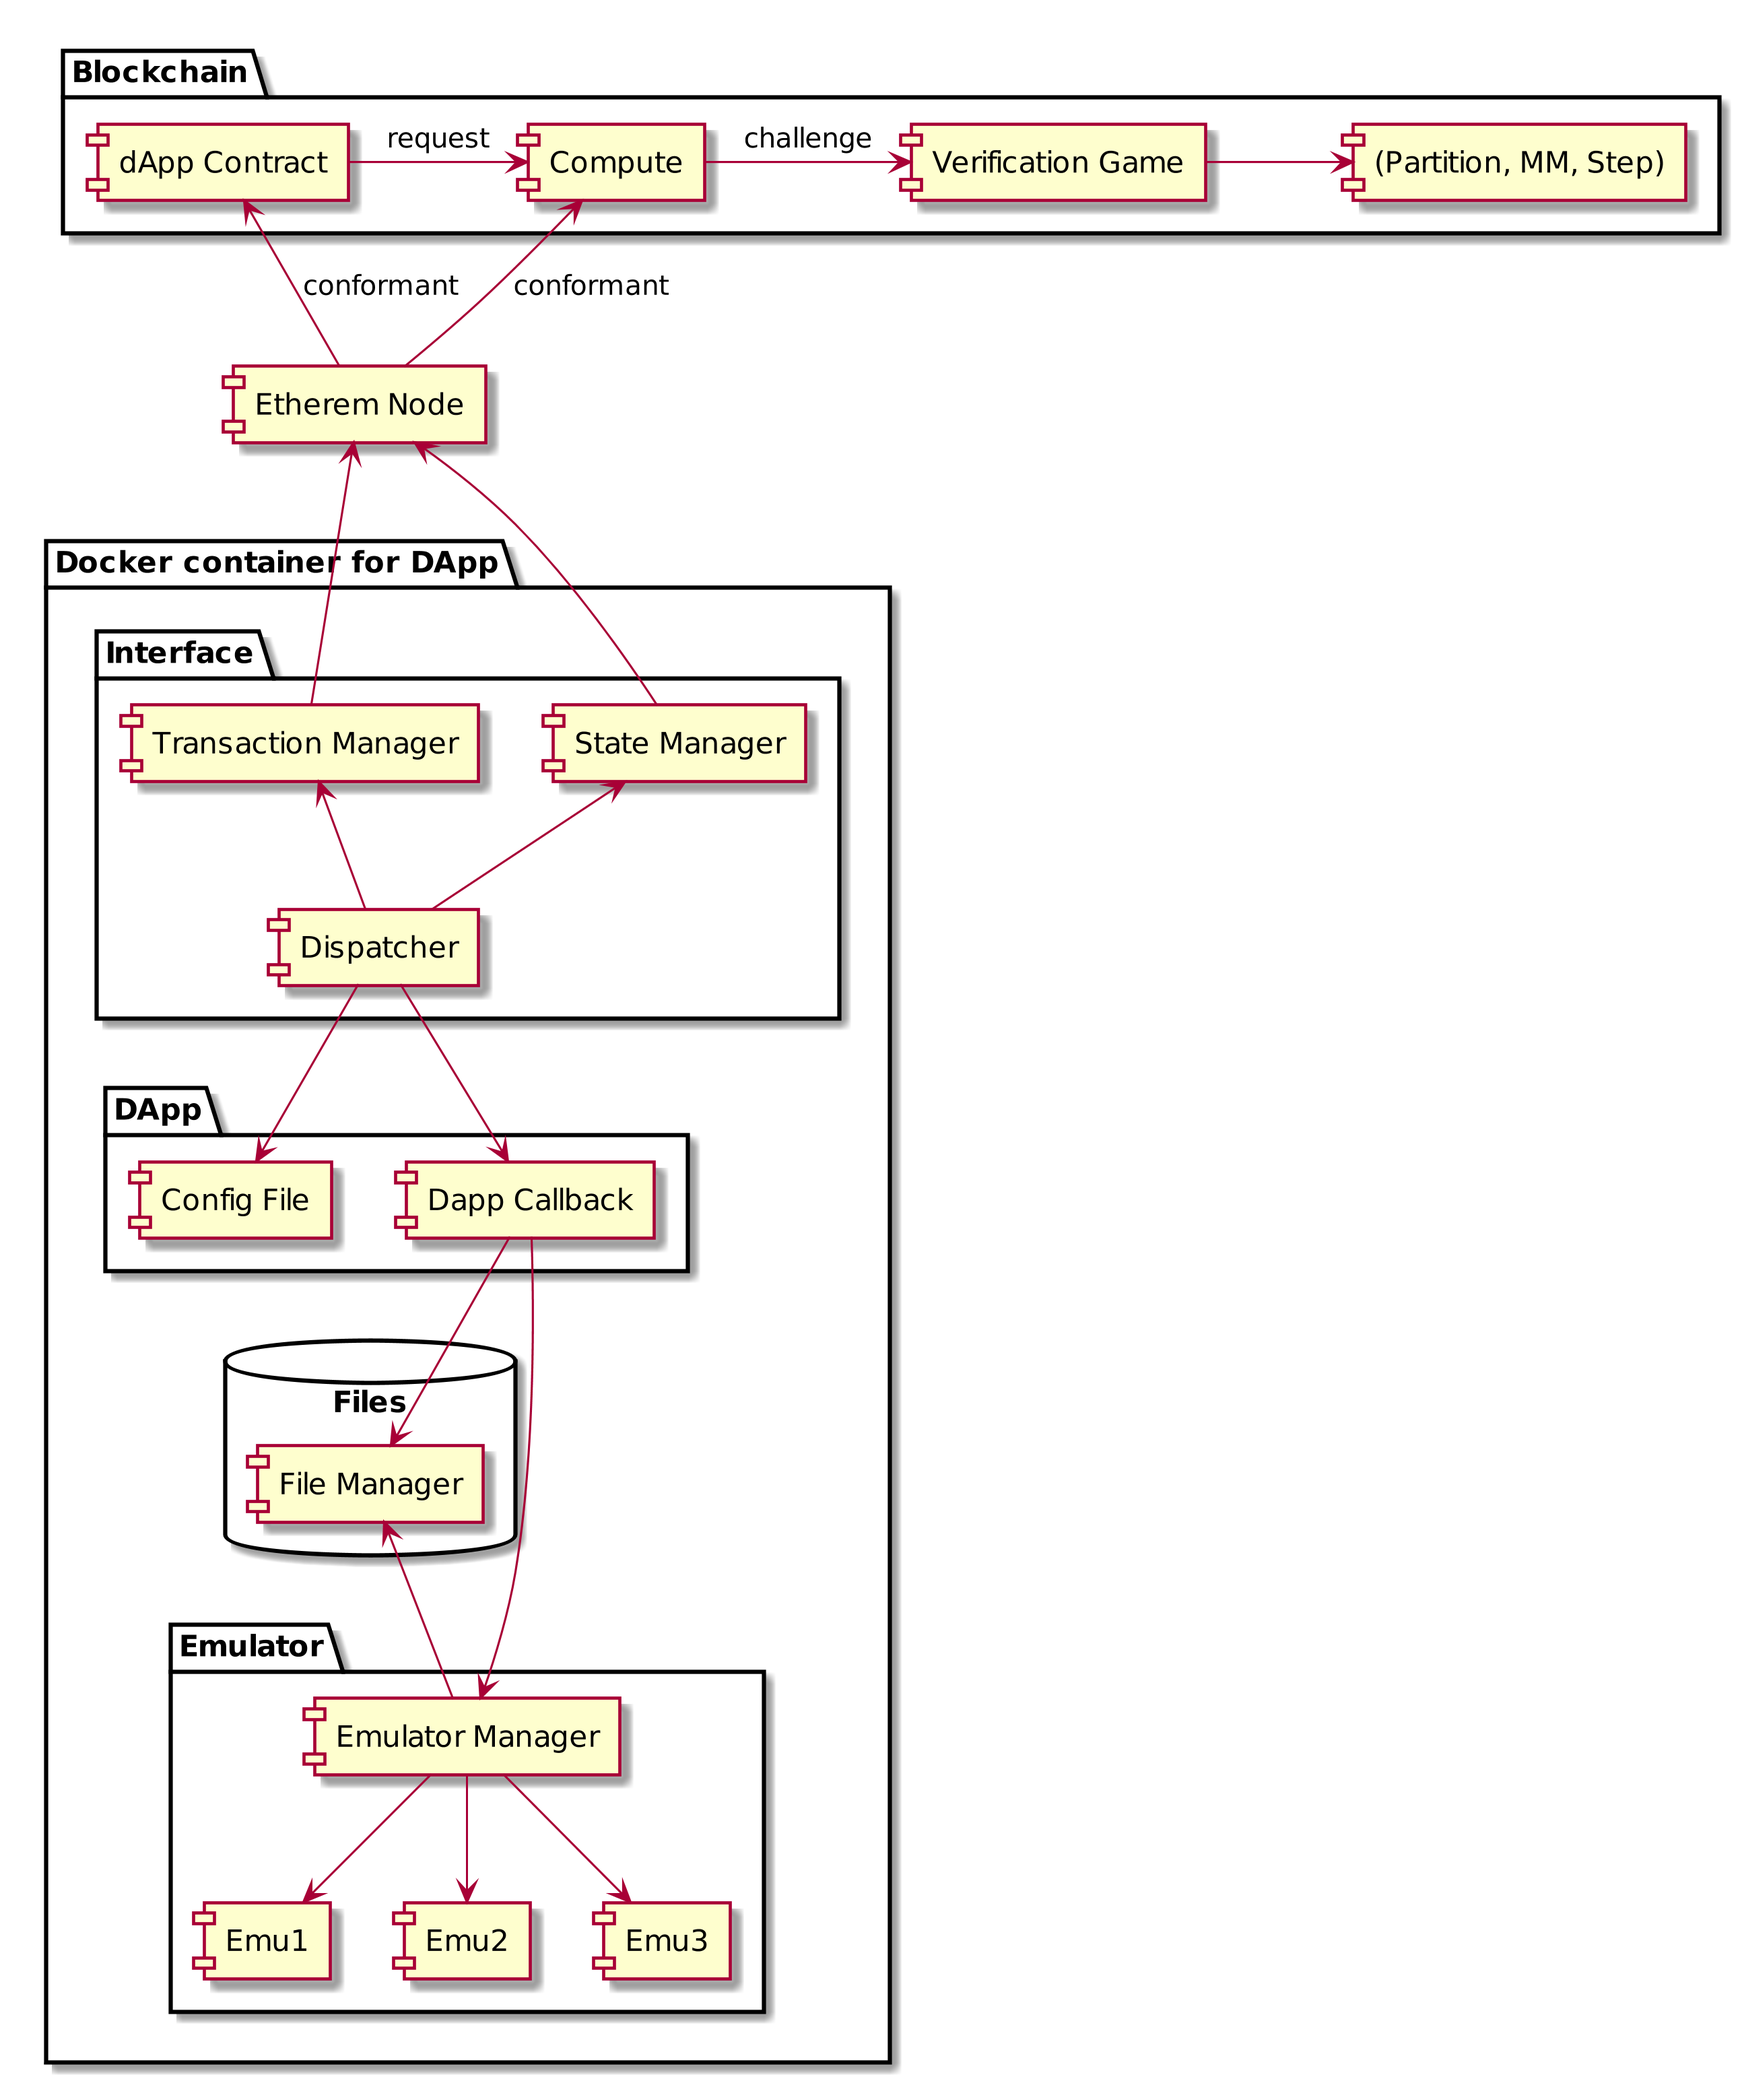
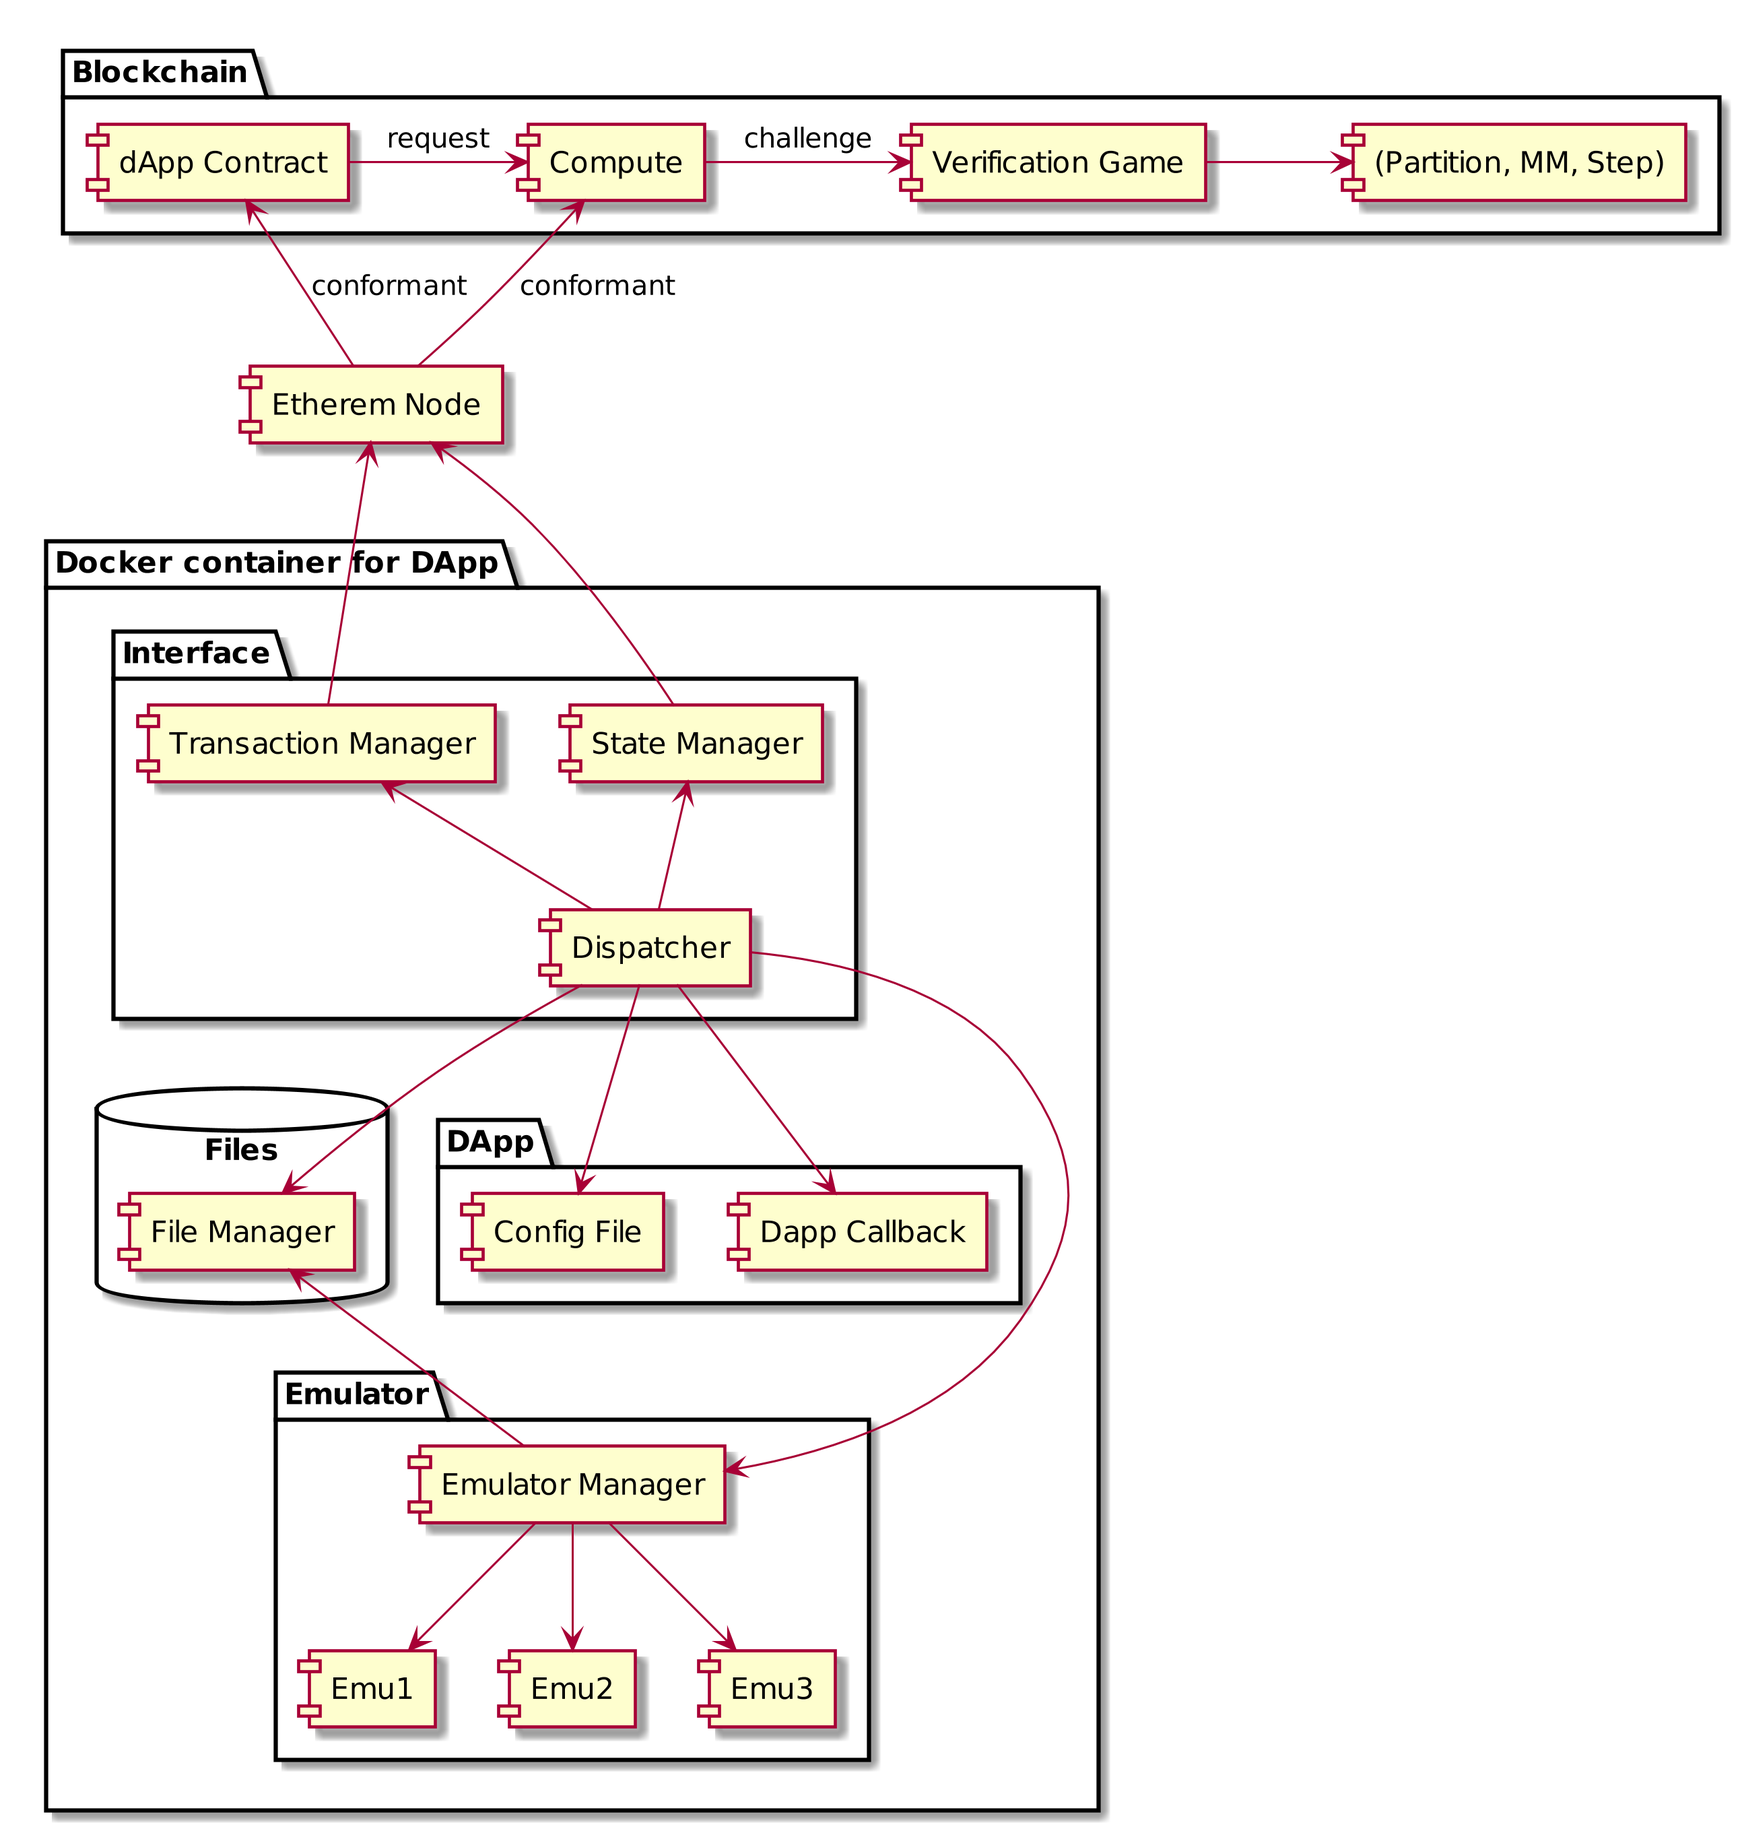
Update dispather README.md

Changed region(s): [[0.0309, 0.0, 1.0, 0.9996]]

diff --git a/README.md b/README.md
@@ -35,6 +35,7 @@ Install rust
     curl https://sh.rustup.rs -sSf | sh
 
 Add cargo to your path in `.bashrc`
+
     export PATH=$PATH:/home/user/.cargo/bin
 
 ## Compile hasher and emulator_interface
@@ -61,12 +62,6 @@ https://github.com/cartesi/grpc_interfaces
 In the root folder
 
     cargo build
-
-# TODOs
-
-- change this file to reflect changes in the design
-- improve error reporting by: adding more chain_err and inserting context inside the error messages
-- implement display for the structs we define and use them in logs
 
 ## Goals
 
@@ -106,6 +101,8 @@ Every other state in the system should be able to bootstrap from the above ones.
 The purpose of each of these components is briefly described below.
 Later we will give an overview of the Dispatcher Loop, then a more detailed description of each module.
 
+The example illustrated in the picture below describes a dApp that communicates with other Cartesi contracts in order to perform computations.
+
 <img src="components.png" alt="drawing" width="500"/>
 
 ### Dispatcher
@@ -126,8 +123,8 @@ Whenever the dApp needs to send a transaction to the blockchain, it has the poss
 
 ### State Manager
 
-DApps written for Cartesi will work best if their smart contracts have some "getter functions" that are predefined by us, guiding somehow the inner workings of the contract.
-Since these getter functions are standard, we have a component dedicated to retrieve these data, which abstracts away:
+DApps written for Cartesi will work best if their smart contracts have some "getter functions" that are predefined in our specifications, guiding somehow the inner workings of the contract.
+Since these getter functions are standard, we have a component dedicated to retrieve these data, which will abstract away:
 
 - the specific blockchain that we are dealing with and
 - whether we are working with a full or a light node.
@@ -135,14 +132,14 @@ Since these getter functions are standard, we have a component dedicated to retr
 ### DApp Callback
 
 This is where the dApp-specific action takes place.
-In order to make a Cartesi dApp, a developer has to implement three things: 
+In order to make a Cartesi dApp, a developer has to implement three things:
 
 - a few smart contracts,
 - some machines to run in our emulator and
 - the "DApp Callback".
 
 This module is called by the Dispatcher, with all the state information that it needs in order to make decisions.
-The Callback can also access files through the File Manager and finally return some action to the Dispatcher in the form of a transaction.
+This callback can be written in a fully functional way, improving testing and reliability.
 
 ### Configuration File
 
@@ -171,10 +168,10 @@ Imagining that the Dispatcher just woke up, it will perform the following steps 
 1. Open the Configuration File to collect all data that is specific to our user.
 The main content of this file is the list of "concerns" as explained below.
 1. Contact the State Manager to obtain all the blockchain information that is relevant to the user. Example: what is currently going on in the "partition contract", instance 17.
-1. Ask the Transaction Manager which of these instances is being treated now and which needs a reaction from us.
 1. All this information is passed to the DApp Callback, which will have to take a decision on how to proceed (more details later).
-The DApp Callback then returns to the Dispatcher one (or more) transactions that should be sent to the blockchain.
-1. The Dispatcher sends these transactions to the Transaction Manager that will make sure they are inserted into the blockchain in a timely manner.
+The DApp Callback then returns to the Dispatcher one (or more) transactions that should be sent to the blockchain or emulations that should be performed.
+1. In one of these cases, the Dispatcher requests emulations to be performed by the Emulator Manager.
+1. Otherwise, it sends the requested transactions to the Transaction Manager that will make sure they are inserted into the blockchain in a timely manner.
 
 ## Configuration File
 
@@ -207,10 +204,12 @@ This helps trim out the instances that need no more attention.
 - `bool isConcerned(uint instance, address player)` There should be a pure function to determine if a certain player should be concerned with a certain instance.
 Typically, this can be achieved by simply storing a list of concerned users and checking against it.
 - `uint getNonce(uint instance)` Each instance should have a nonce that is incremented in every transaction (that is not reversed, of course).
-This nonce is important in various moments for the off-chain component to decide on how to react.
+This nonce will be important in various moments for the off-chain component to decide on how to react.
 - `bytes getState(uint instance)` This pure function returns the current state of one particular instance.
 Note that all data which is necessary for players to react to this instance should be returned by this function, although not necessarily the full state of the contract.
 For example, in the case of partition, one possible return for this function would contain something like `[nonce: 5, state: 2, queryArray: [0, 200, 400, 600]]` encoded appropriately.
+- `getSubInstances(uint instance)` this function returns other pairs `(address, instance)` of other smart contracts and instances that are relevante for the user.
+For example, a verification game may depend on a partition instance stored in another contract.
 
 ## State Manager
 
@@ -220,13 +219,13 @@ The responsibilities of the State Manager are:
 These queries should also include the `nonce` each instance,
 - get the current state of the contract,
 - cache this information for faster retrieval and
-- do all of the above work efficiently with both a full or a light Ethereum node.
+- in the future, do all of the above work efficiently with both a full or a light Ethereum node.
 
 The state of this module can be fully bootstrapped from the information present in the blokchain, but caching is essential to get any acceptable performance.
 
 #### Calls
 
-The first query that the SM has a pair (contract, address) as input:
+The first query that the SM can perform has a pair (contract, address) as input:
 
     { contract: 0xf778b86fa74e846c4f0a1fbd1335fe81c00a0c91,
       address: 0x6ac7ea33f8831ea9dcc53393aaa88b25a785dbf0
@@ -250,7 +249,7 @@ The response of this query gives simply the result the `getState` call:
       queryArray: [0, 200, 400, 600]
     }
 
-where the above could be encoded into a binary according to the Ethereum ABI.
+where the above could be encoded according to the Ethereum ABI.
 
 #### State
 
@@ -325,7 +324,7 @@ The return of this message is simply a OK/ERROR status.
 After receiving such a message, the Transaction Manager will keep trying to send the above transaction: within the specified deadline, trying to minimize the cost and not going over the value `max_price`.
 While the current process is trying to push this transaction, it is marked as "being handled" for the purpose of the request described below.
 
-Another query that can be made to the Transaction Manager sees if some instance/nonce is being handled or not:
+Another query that will be implemented in the Transaction Manager sees if some instance/nonce is being handled or not:
 
     { origin: 0x6ac7ea33f8831ea9dcc53393aaa88b25a785dbf0,
       destination: 0xf778b86fa74e846c4f0a1fbd1335fe81c00a0c91,
@@ -356,14 +355,14 @@ The input should look like this:
       address: 0x6ac7ea33f8831ea9dcc53393aaa88b25a785dbf0,
       instance: 28,
       nonce: 23,
-      state: "0xc6888fa1000000000000000000000000000"
+      state: "[state: 2, queryArray: [0, 200, 400, 600]]"
+      archive: [{step = 0, hash = 0x56ab3857c7461100374bff64da462789}]
     }
 
-Note that `state` is the encoded form of something like: `[state: 2, queryArray: [0, 200, 400, 600]]`.
+Note that `state` is the encoded in Json and includes all the sub-instances of this particular instance.
+The list contained in `archive` includes all the computations already performed by the emulator manager.
 
-After receiving this call, the DApp Callback can use the network and interact with the File Manager until it is ready to submit a response in the form of a transaction.
-
-The return of this call is a transaction exactly as described for the Transaction Manager.
+After receiving this call, the DApp Callback should submit a response to the dispatcher in the form of either a transaction or a request for further computations to be emulated.
 
 ## File Manager
 
@@ -385,4 +384,10 @@ Please note we have a code of conduct, please follow it in all your interactions
 
 
 ## Acknowledgments
+
+# TODOs
+
+- change this file to reflect changes in the design
+- improve error reporting by: adding more chain_err and inserting context inside the error messages
+- implement display for the structs we define and use them in logs
 
